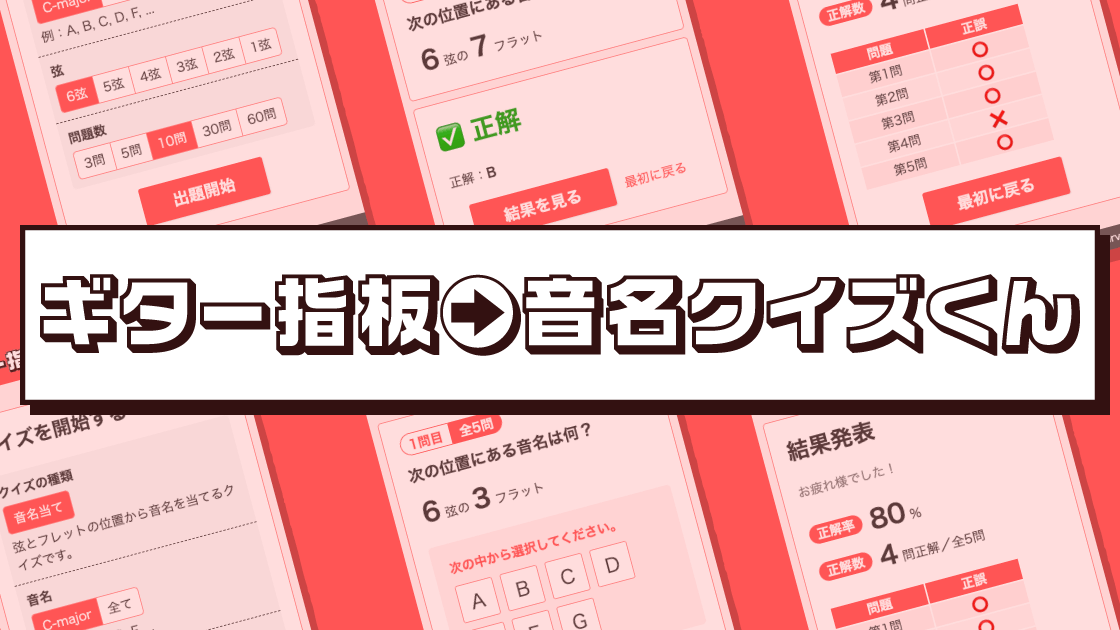
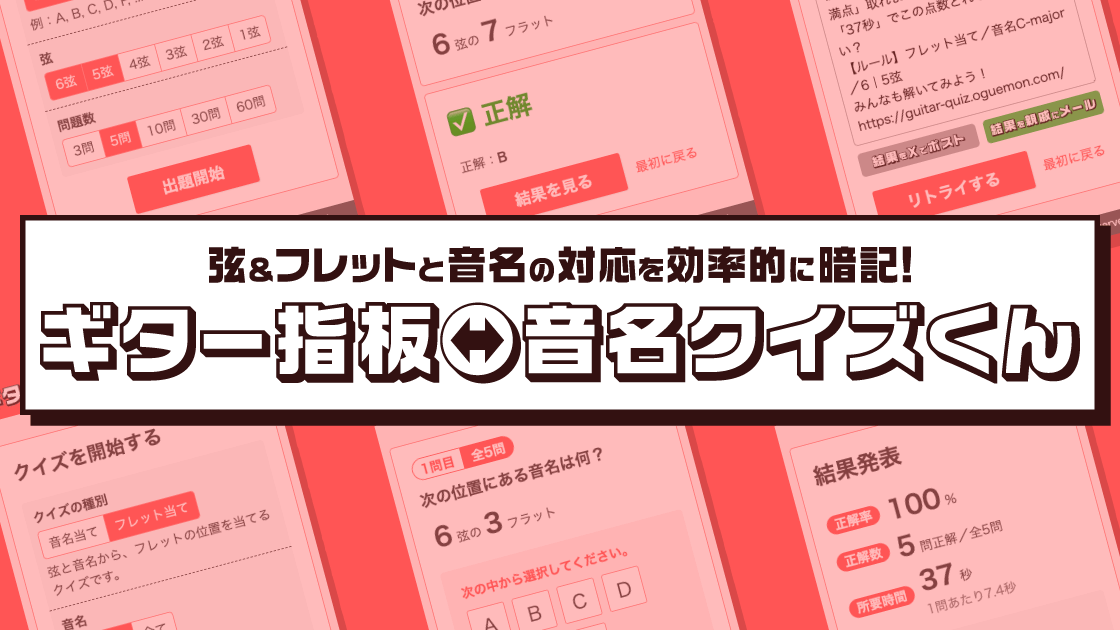
タイトルとロゴ・OG情報等を変更

diff --git a/src/components/QuizSection/ResultPanel/SharePanel/SharePanel.tsx b/src/components/QuizSection/ResultPanel/SharePanel/SharePanel.tsx
@@ -25,7 +25,7 @@ export const SharePanel: FC<Props> = ({
 
   // テキストボックス
   const shareMessage =
-    `#ギター指板クイズくん で「${correctCount}点／${totalCount}点満点」取れました！\n` +
+    `#ギター指板音名クイズくん で「${correctCount}点／${totalCount}点満点」取れました！\n` +
     `「${seconds}秒」でこの点数とれるのすごくない？\n` +
     `【ルール】${quizType}／音名${quizAnswerOptions}／${quizStrings}弦\n` +
     'みんなも解いてみよう！\n' +
@@ -33,25 +33,25 @@ export const SharePanel: FC<Props> = ({
 
   // X
   const xBody: string =
-    `#ギター指板クイズくん で「${correctCount}問／全${totalCount}問」正解しました！\n` +
+    `#ギター指板音名クイズくん で「${correctCount}問／全${totalCount}問」正解しました！\n` +
     `「${seconds}秒」でこの点数をとれるのすごくない？\n` +
     `【ルール】${quizType}／音名${quizAnswerOptions}／${quizStrings}弦\n\n` +
     'みんなも解いてみよう！\n';
   const xHref = generateXShareLink(xBody);
 
   // メール
-  const mailSubject = 'ギター指板クイズくんで脅威的なスコアが出ました';
+  const mailSubject = 'ギター指板音名クイズくんで脅威的なスコアが出ました';
   const mailBody =
     '親戚各位\n\n' +
     'お世話になっております、〇〇です。\n' +
-    'ところでなのですが、先日「ギター指板クイズくん」というゲームをプレイしまして、\n' +
+    'ところでなのですが、先日「ギター指板音名クイズくん」というゲームをプレイしまして、\n' +
     `その結果、${totalCount}問中${correctCount}問を正解することができました！\n` +
     `解答にかかった時間は${seconds}秒で、なかなか上出来なのではないかと思います。\n\n` +
     `ちなみに、ルールは「${quizType}」で、音名の範囲は「${quizAnswerOptions}」、対象の弦は「${quizStrings}弦」でした。\n` +
     'ぜひとも皆さんもお試しくださいね。\n\n' +
     'もし質問などがございましたら、このメールにご返信願います。\n' +
     '取り急ぎご報告まで。\n\n' +
-    'ギター指板クイズくん\n' +
+    'ギター指板音名クイズくん\n' +
     'https://guitar-quiz.oguemon.com/';
   const mailHref = generateMailShareLink(mailSubject, mailBody);
 

diff --git a/index.html b/index.html
@@ -3,14 +3,20 @@
   <head>
     <meta charset="UTF-8" />
     <meta name="viewport" content="width=device-width, initial-scale=1.0" />
-    <title>ギター指板→音名クイズくん</title>
+    <title>
+      ギター指板音名クイズくん｜弦&フレットと音名の対応を暗記しよう！
+    </title>
+    <meta
+      name="description"
+      content="ギターの弦&フレットと音名の対応関係を効率的に覚えられる問題集。指板の位置から音名を当てる問題と、弦と音名からフレット位置を当てる問題に対応。"
+    />
     <link rel="icon" href="/favicon.ico" />
     <!-- Favicon設定 -->
     <link href="/favicon.ico" rel="shortcut icon" />
     <!-- OGP設定 -->
     <meta
       property="og:title"
-      content="ギター指板→音名クイズくん〜ギターの指板と音名の対応をクイズ形式で瞬時に覚えよう〜"
+      content="ギター指板音名クイズくん｜弦&フレットと音名の対応を暗記しよう"
     />
     <meta property="og:type" content="website" />
     <meta property="og:url" content="https://guitar-quiz.oguemon.com/" />
@@ -20,7 +26,7 @@
     />
     <meta
       property="og:description"
-      content="ギター上達の必携！ギターの指板と音名の対応が瞬時に覚えられるクイズアプリが登場！"
+      content="ギター上達の必携！ギターの指板と音名の対応が瞬時に覚えられる問題集が登場！音名クイズとフレット位置クイズに対応！"
     />
     <meta name="twitter:card" content="summary_large_image" />
     <meta name="twitter:site" content="@oguemon_com" />

diff --git a/src/components/Header/Header.tsx b/src/components/Header/Header.tsx
@@ -5,7 +5,7 @@ import styles from './Header.module.css';
 export const Header: FC = () => {
   return (
     <header className={styles.module}>
-      <img className={styles.logo} src={Logo} alt="ギター指板→音名クイズくん" />
+      <img className={styles.logo} src={Logo} alt="ギター指板音名クイズくん" />
     </header>
   );
 };

diff --git a/README.md b/README.md
@@ -1,4 +1,4 @@
-# ギター指板クイズくん
+# ギター指板音名クイズくん
 
 ## 開発方法
 
